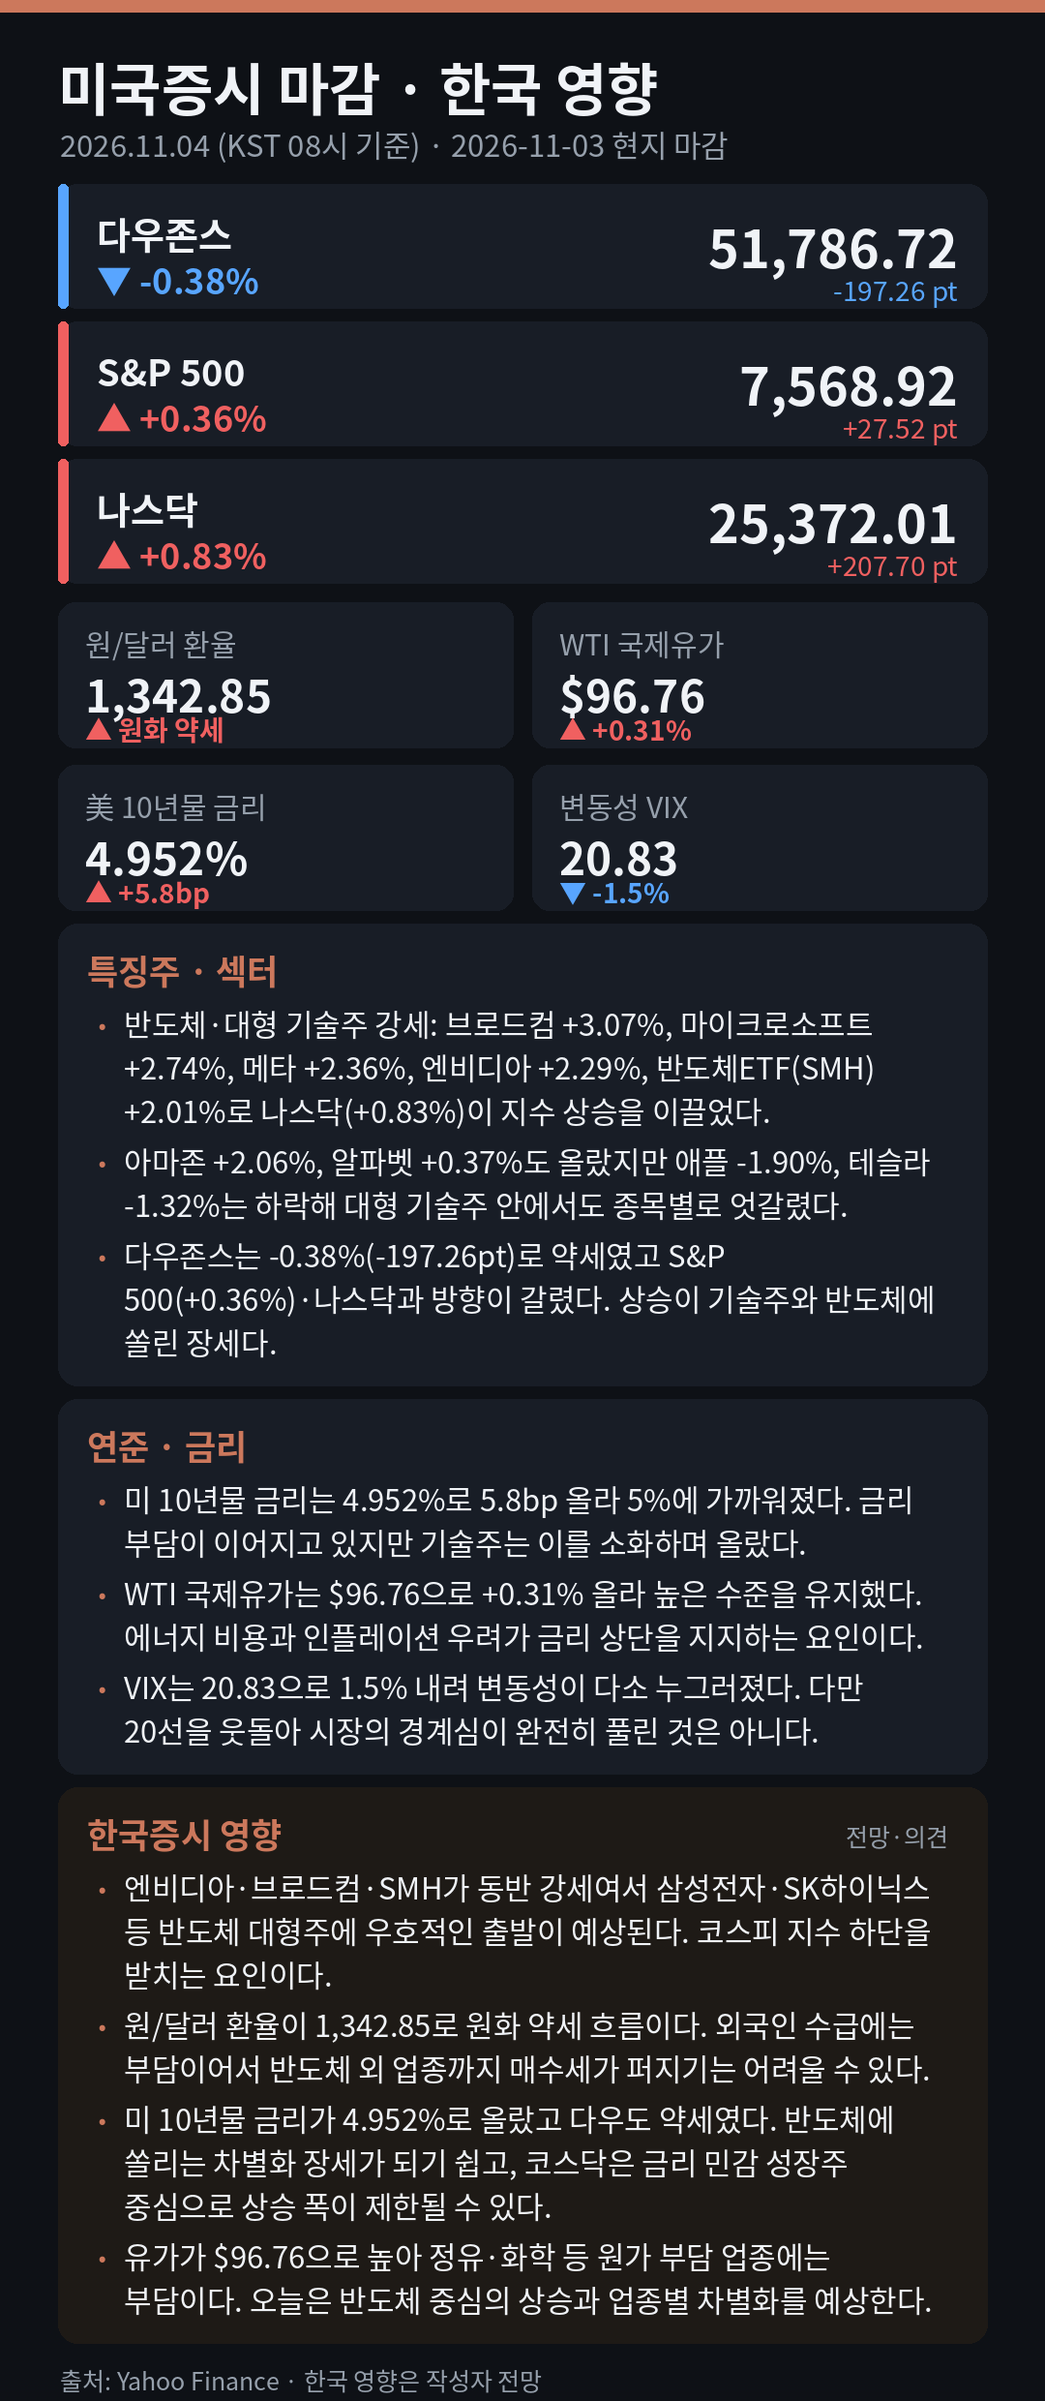
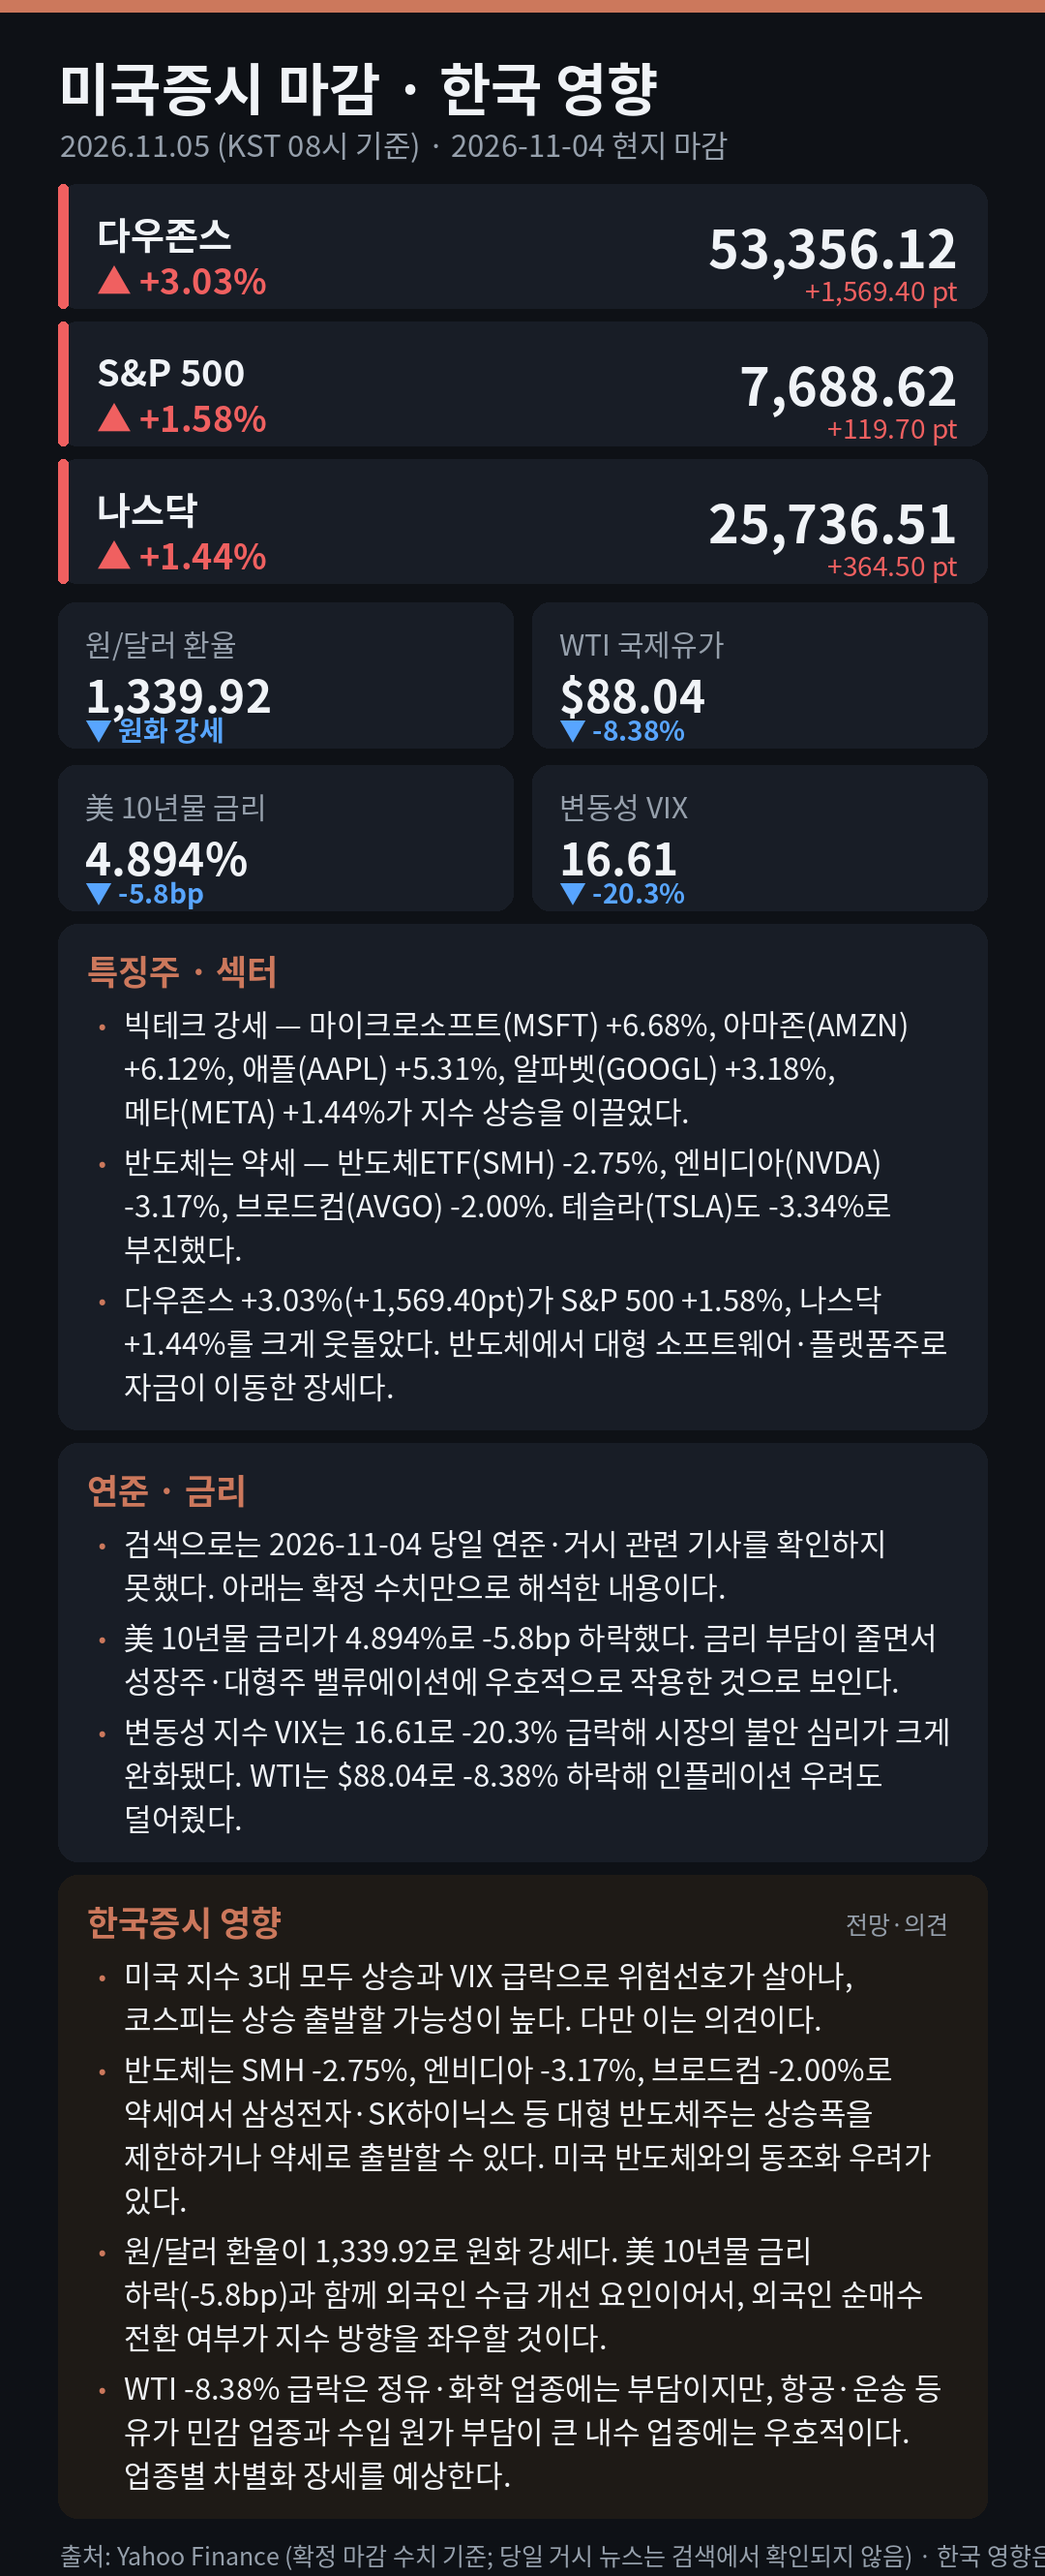
브리핑 2026-11-04 자동 발행

diff --git a/index.html b/index.html
@@ -14,8 +14,8 @@ a{color:#58a5ff;text-decoration:none} .s{color:#8a93a0;font-size:12px;float:righ
 </style></head><body><div class="wrap">
 <h1>미국증시 마감 브리핑</h1>
 <p class="sub">매일 아침(KST 08:02) 자동 업데이트 · 숫자는 Yahoo Finance 기준, 한국 영향은 전망</p>
-<img class="card" src="img/2026-11-03.png?v=2026-11-03" alt="2026-11-03 미국증시 마감"><p class="d">2026-11-03 현지 마감</p>
+<img class="card" src="img/2026-11-04.png?v=2026-11-04" alt="2026-11-04 미국증시 마감"><p class="d">2026-11-04 현지 마감</p>
 <h2>지난 브리핑</h2>
-<ul><li><a href="img/2026-11-03.png">2026-11-03</a> <span class="s">다우존스 -0.38% · S&P 500 +0.36% · 나스닥 +0.83%</span></li><li><a href="img/2026-11-02.png">2026-11-02</a> <span class="s">다우존스 +0.41% · S&P 500 -0.51% · 나스닥 -1.07%</span></li><li><a href="img/2026-10-30.png">2026-10-30</a> <span class="s">다우존스 -1.09% · S&P 500 -1.82% · 나스닥 -2.86%</span></li><li><a href="img/2026-10-29.png">2026-10-29</a> <span class="s">다우존스 -0.25% · S&P 500 -0.30% · 나스닥 -1.38%</span></li><li><a href="img/2026-10-28.png">2026-10-28</a> <span class="s">다우존스 +0.19% · S&P 500 +0.28% · 나스닥 +0.27%</span></li><li><a href="img/2026-10-27.png">2026-10-27</a> <span class="s">다우존스 +0.03% · S&P 500 +0.60% · 나스닥 +1.18%</span></li><li><a href="img/2026-10-26.png">2026-10-26</a> <span class="s">다우존스 +0.28% · S&P 500 +0.70% · 나스닥 +0.82%</span></li><li><a href="img/2026-10-23.png">2026-10-23</a> <span class="s">다우존스 -1.23% · S&P 500 -0.52% · 나스닥 -0.21%</span></li><li><a href="img/2026-10-22.png">2026-10-22</a> <span class="s">다우존스 +0.71% · S&P 500 -0.64% · 나스닥 -1.57%</span></li><li><a href="img/2026-10-21.png">2026-10-21</a> <span class="s">다우존스 +0.69% · S&P 500 +0.58% · 나스닥 +1.05%</span></li><li><a href="img/2026-10-20.png">2026-10-20</a> <span class="s">다우존스 +1.02% · S&P 500 +0.28% · 나스닥 -0.02%</span></li></ul>
+<ul><li><a href="img/2026-11-04.png">2026-11-04</a> <span class="s">다우존스 +3.03% · S&P 500 +1.58% · 나스닥 +1.44%</span></li><li><a href="img/2026-11-03.png">2026-11-03</a> <span class="s">다우존스 -0.38% · S&P 500 +0.36% · 나스닥 +0.83%</span></li><li><a href="img/2026-11-02.png">2026-11-02</a> <span class="s">다우존스 +0.41% · S&P 500 -0.51% · 나스닥 -1.07%</span></li><li><a href="img/2026-10-30.png">2026-10-30</a> <span class="s">다우존스 -1.09% · S&P 500 -1.82% · 나스닥 -2.86%</span></li><li><a href="img/2026-10-29.png">2026-10-29</a> <span class="s">다우존스 -0.25% · S&P 500 -0.30% · 나스닥 -1.38%</span></li><li><a href="img/2026-10-28.png">2026-10-28</a> <span class="s">다우존스 +0.19% · S&P 500 +0.28% · 나스닥 +0.27%</span></li><li><a href="img/2026-10-27.png">2026-10-27</a> <span class="s">다우존스 +0.03% · S&P 500 +0.60% · 나스닥 +1.18%</span></li><li><a href="img/2026-10-26.png">2026-10-26</a> <span class="s">다우존스 +0.28% · S&P 500 +0.70% · 나스닥 +0.82%</span></li><li><a href="img/2026-10-23.png">2026-10-23</a> <span class="s">다우존스 -1.23% · S&P 500 -0.52% · 나스닥 -0.21%</span></li><li><a href="img/2026-10-22.png">2026-10-22</a> <span class="s">다우존스 +0.71% · S&P 500 -0.64% · 나스닥 -1.57%</span></li><li><a href="img/2026-10-21.png">2026-10-21</a> <span class="s">다우존스 +0.69% · S&P 500 +0.58% · 나스닥 +1.05%</span></li></ul>
 <p class="foot">자동 생성 · Navis</p>
 </div></body></html>
